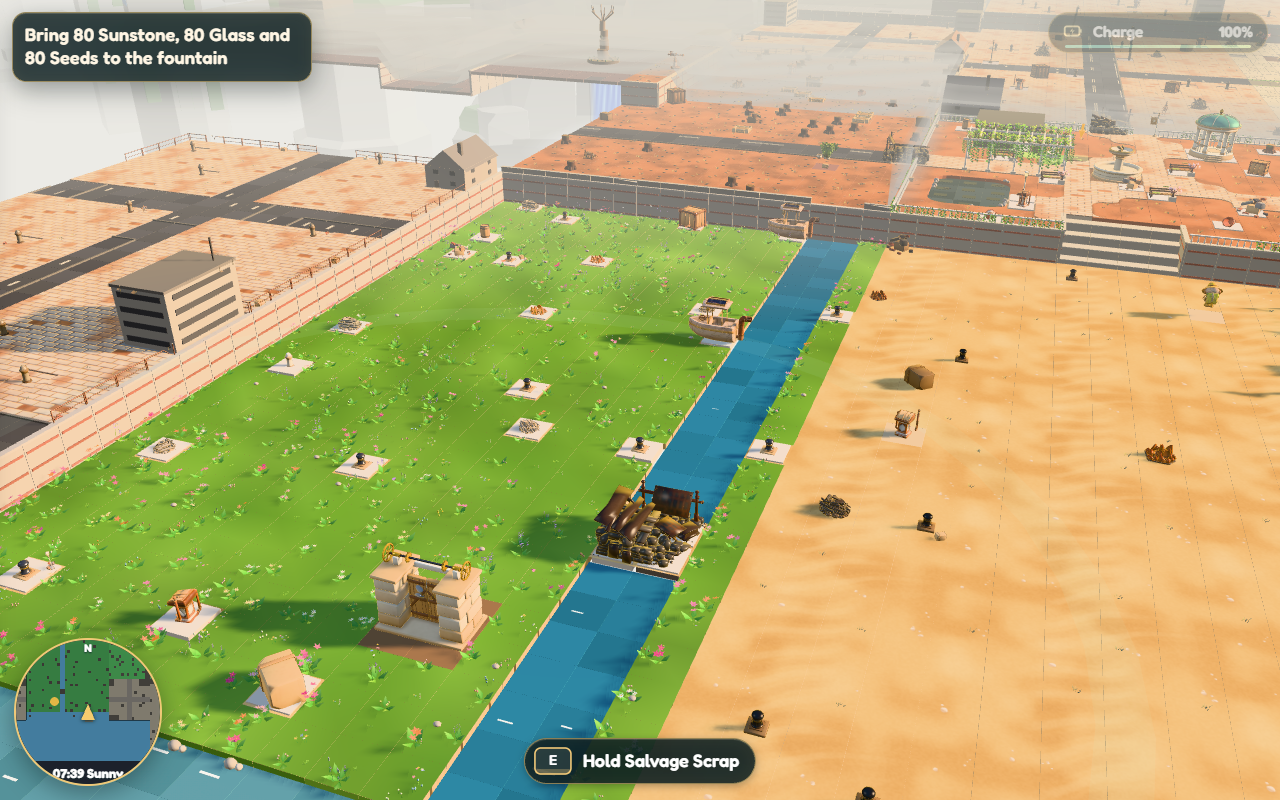
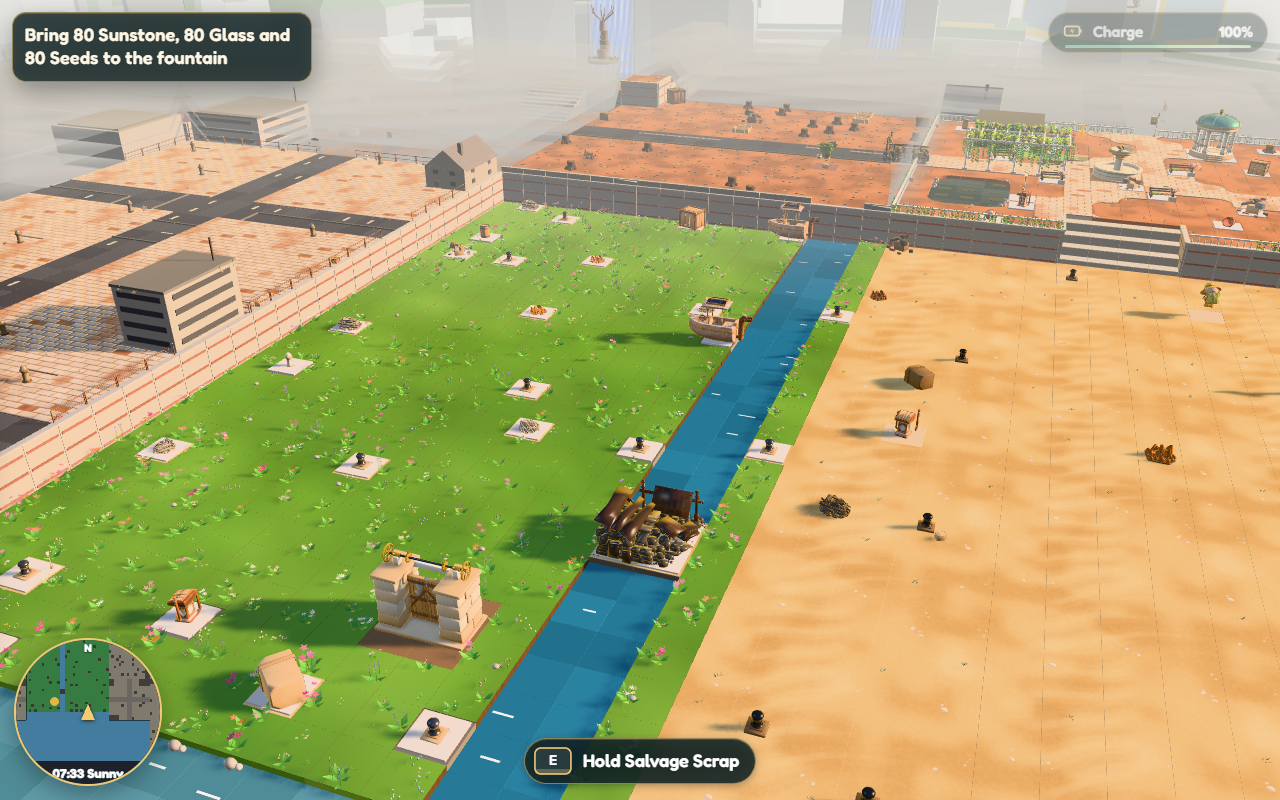
E23.8 (#327–#329): region dressing, three optional glides back toward the park, dead/restored and skyline shots
Dressing
- RegionDef.dressing + DRESS (data/oldcity): 8 old things per region (Mast Row: + a run of tram rails in its
  road), from existing models (never a salvage model) or built from shapes where no model exists: tram rails,
  a leaning cable pole, a string of paper lanterns (lit once restored), a stump ring, a fallen trunk, a heap of
  clockwork. Stamped as set pieces (blocking, rails walked over and never built on), drawn in ChunkRenderer.
- scripts/place-region-dressing.ts lays them out: street furniture beside the road facing it, mooring posts,
  boats and drains on the rim beside water, the rest on open ground; never on the jetty, and never beside a pile
  or another prop (no walls).
- tests/region-dressing.test.ts: 6–10 per region, known kinds, no salvage models, own stamped cell, apart from
  piles and props, every pile/cache/page/lookout still reached, nothing built over rails.

Glides (#329)
- RegionDef.glides: Observatory Hill → Mast Row, Spire Heights → Elder Grove, Glasshouse Gardens → Elder Grove
  (scripts/place-glides.ts: lower, nearer the fountain, at most 24 cells). A perch is a set piece drawn with the
  glide-perch model, turned toward the landing.
- GateSystem.glideAt/glideProblem/glide (Glide ability, a little charge); Game: "Glide to <region>";
  BotController.glideTo: an arc through the air, the camera following, then a soft landing.
- tests/region-glides.test.ts and tests/e2e/glide.e2e.mjs (refused without Glide, takes off, lands, charge spent).
[…]

diff --git a/src/data/oldcity.ts b/src/data/oldcity.ts
@@ -369,10 +369,10 @@ export const REGIONS: RegionDef[] = [
       P('sw-u4', -10, 26, 'sunstone', 'small', 'salvage-sunstone'),
     ],
     dressing: [
-      D('mooring-post', -15, 44, 1),
-      D('mooring-post', -1, 44, 2),
-      D('mooring-post', 12, 44, 1),
+      D('mooring-post', -13, 44, 1),
+      D('mooring-post', 5, 44, 1),
       D('mooring-post', -4, 33, 0),
+      D('mooring-post', -4, 43, 0),
       D('boat', -4, 16, 0),
       D('boat', -4, 26, 0),
       D('barrel', -15, 20, 3),
